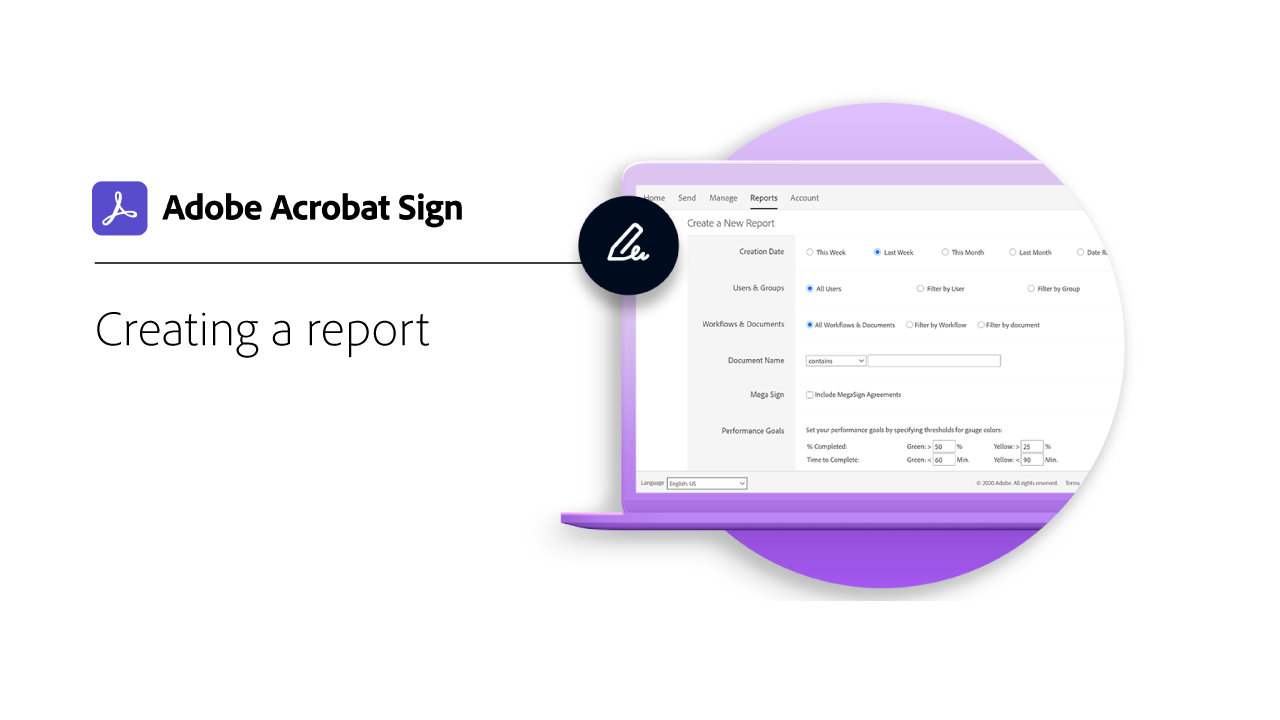
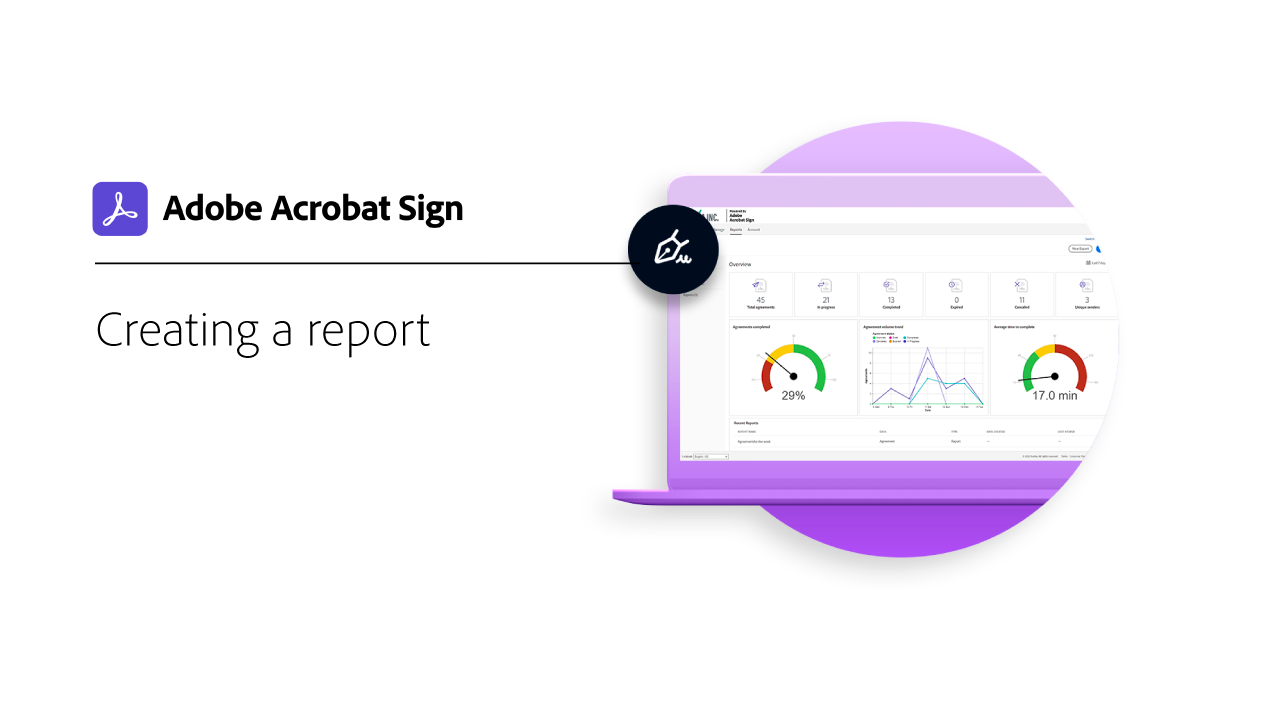
Report tutorials

diff --git a/help/sign/TOC.md b/help/sign/TOC.md
@@ -47,6 +47,7 @@ breadcrumb-title: Acrobat Sign Tutorials
   + Managing {#advanced-tasks-managing}
     + [Managing document templates](sign-advanced-users/edit-a-template.md)
     + [Modify an existing web form](sign-advanced-users/modify-webform.md)
+    + [Creating a report](sign-advanced-users/creating-a-report.md)
 + Administer {#admin-set-up}
   + [Overview](admin/intro-admin-overview.md)
   + Getting started {#getting-started-admin}
@@ -56,7 +57,7 @@ breadcrumb-title: Acrobat Sign Tutorials
     + [Creating and managing groups](admin/create-and-manage-groups.md)
     + [Setting up an external archive](admin/set-up-your-external-archive.md)
     + [Creating a template](sign-advanced-users/create-a-template.md)
-    + [Creating a report](admin/create-a-report.md)
+    + [Creating a report chart](admin/create-a-report.md)
     + [Creating a web form](sign-advanced-users/webform.md)
     + [Modify an existing web form](https://experienceleague.adobe.com/docs/document-cloud-learn/sign-learning-hub/advanced-tasks/advanced-tasks-managing/modify-webform.html)
     + [Send & collect signatures in bulk](sign-advanced-users/megasign.md)

diff --git a/help/sign/admin/create-a-report.md b/help/sign/admin/create-a-report.md
@@ -1,21 +1,20 @@
 ---
-title: Creating a Report
-description: Learn how to run, save, and schedule reports in Acrobat Sign
+title: Creating a Report Chart
+description: Learn how to build, save, and manage your own custom reports and data exports
 role: User, Admin
-product: adobe sign
 level: Intermediate
 thumbnail: 17357.jpg
 exl-id: 337320ae-6e0c-45f9-8e1f-751a293375ad
 ---
-# Creating a report
+# Creating a report chart
 
-Learn how to run, save, and schedule reports in Acrobat Sign.
+Learn how to build, save, and manage your own custom reports and data exports in a personalized view with the new reporting experience. The availability of report charts is dependent on the users' authority level in the Acrobat Sign system.  
 
 >[!NOTE]
 >
 >Reporting is only available for business- and enterprise-level plans.
 
->[!VIDEO](https://video.tv.adobe.com/v/17357?hidetitle=true)
+>[!VIDEO](https://video.tv.adobe.com/v/33812?hidetitle=true)
 
 >[!TIP]
 >

diff --git a/help/sign/admin/intro-admin-overview.md b/help/sign/admin/intro-admin-overview.md
@@ -82,12 +82,12 @@ Learn about adding users to your account, setting up groups, sharing access, and
   </td>
   <td>
     <a href="create-a-report.md">
-      <img alt="Creating a report" src="../assets/Report.png" />
+      <img alt="Creating a report chart" src="../assets/Reportchart.png" />
     </a>
     <div>
-    <a href="create-a-report.md"><strong>Creating a report</strong></a>
+    <a href="create-a-report.md"><strong>Creating a report chart</strong></a>
     </div>
-    <em>Create and schedule reports to gain visibility into your organization's use of Acrobat Sign</em>
+    <em>Learn how to build, save, and manage your own custom reports and data exports</em>
     <br>
   </td>
   <td>

diff --git a/help/sign/sign-advanced-users/advanced-users-overview.md b/help/sign/sign-advanced-users/advanced-users-overview.md
@@ -123,10 +123,15 @@ Learn how to send a document out for signature to 100s of recipients at once, se
     <br>
   </td>  
   <td>
-    <img alt="Spacer" src="../assets/Whitespacer.png" />
+    <a href="creating-a-report.md">
+      <img alt="Creating a report" src="../assets/Report.png" />
+    </a>
     <div>
+    <a href="creating-a-report.md"><strong>Creating a report</strong></a>
+    </div>
+    <em>Learn how to build your own reports to gain visibility into the document signing process</em>
     <br>
-  </td>
+  </td>  
   <td>
     <img alt="Spacer" src="../assets/Whitespacer.png" />
     <div>

diff --git a/help/sign/sign-advanced-users/creating-a-report.md b/help/sign/sign-advanced-users/creating-a-report.md
@@ -1,0 +1,16 @@
+---
+title: Creating a Report
+description: Learn how to build your own reports to gain visibility into the document signing process
+role: User, Admin
+level: Intermediate
+thumbnail: KT-11027.jpg
+---
+# Creating a report
+
+Learn how to build your own reports to gain visibility into your document signing process, or see how individual groups or users are doing.
+
+>[!NOTE]
+>
+>Reporting is only available for business- and enterprise-level plans.
+
+>[!VIDEO](https://video.tv.adobe.com/v/346754?hidetitle=true)
